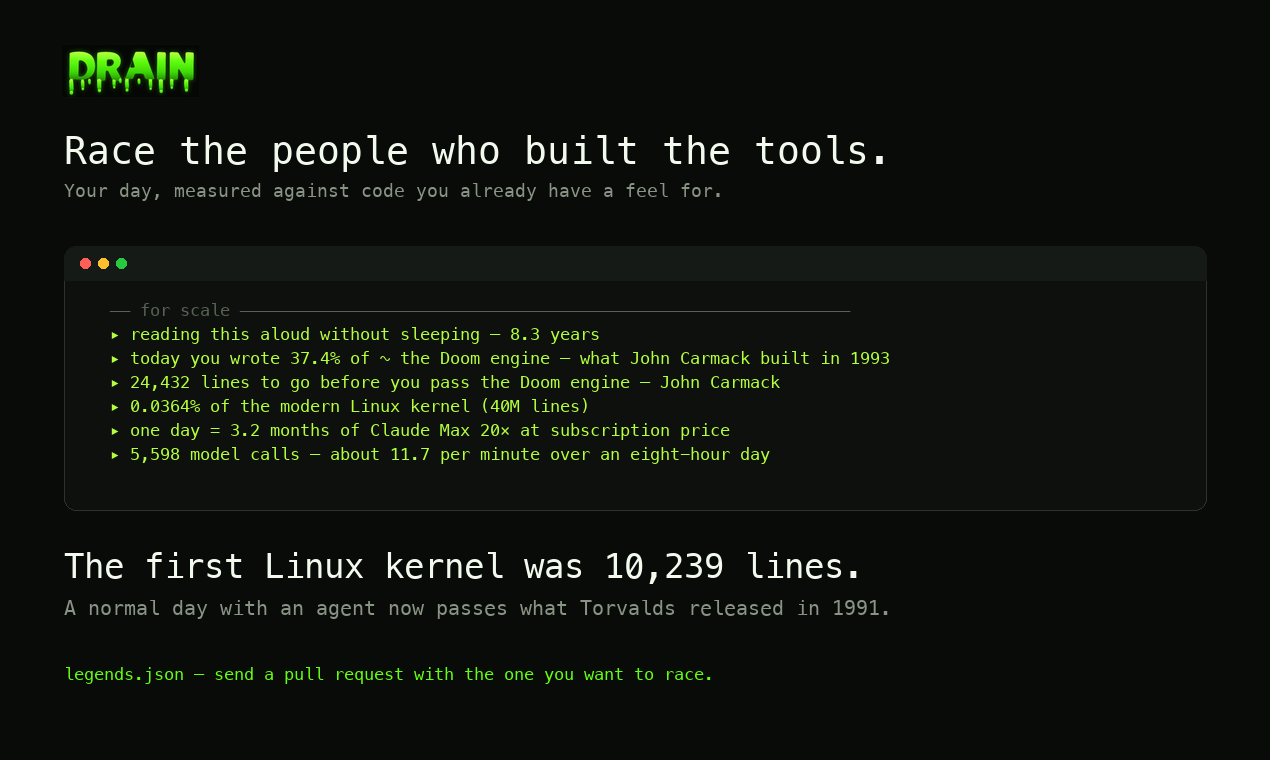
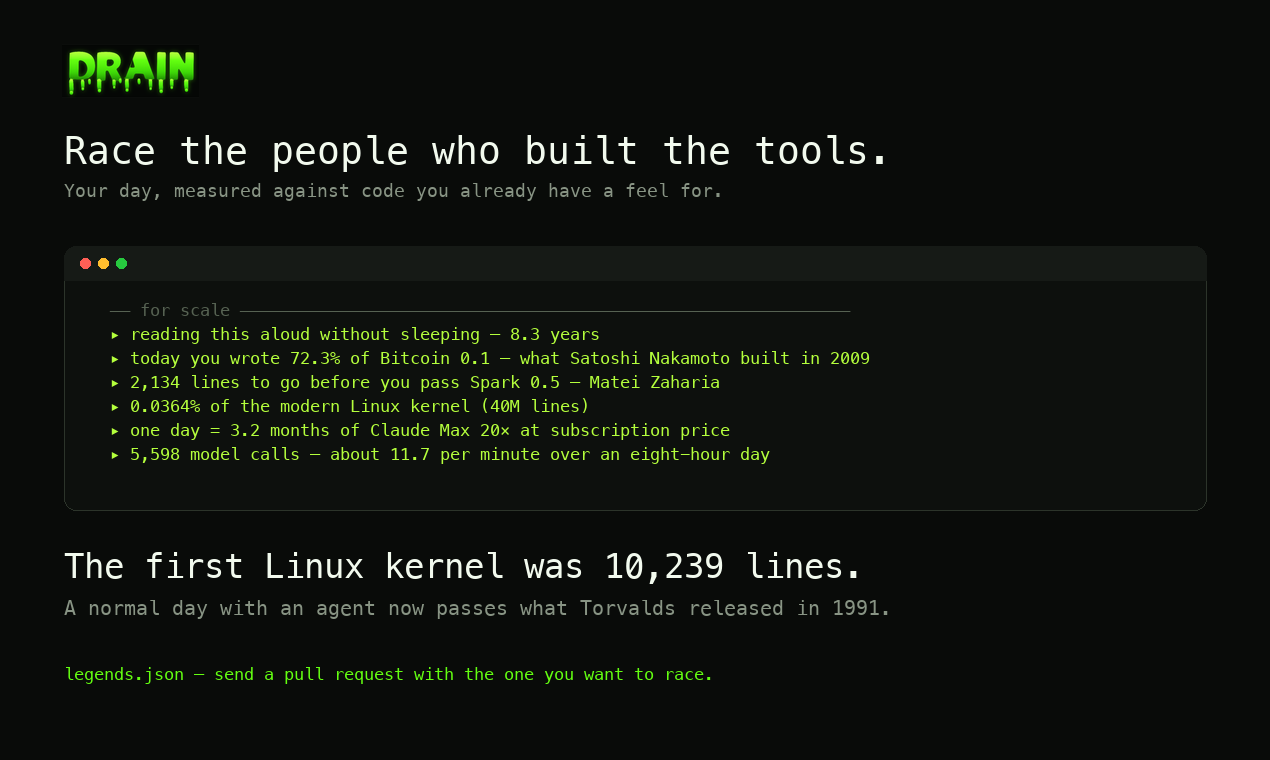
legends: 41 projects, 38 of them measured rather than quoted
The roster was mixing units. Quoted figures like "Doom — 39,000 lines" count
statements, while the lines drain credits you with come from git and are
physical lines. Comparing one to the other flattered every user.

Every measurable entry is now checked out at a named tag and counted the same
way drain counts: physical lines of source files, vendored directories out.
Doom is 55,048 physical lines in linuxdoom-1.10, and the entry says why that
is not the 39,000 everyone quotes.

Mostly first releases, because a day of work compares to a beginning and not
to a mature project — from tinygrad's first 88-line commit to Go 1.0. The
scale is dense enough that the comparison changes day to day, and the ML and
data pantheon is there now: GPT-2, nanoGPT, Keras 0.1, scikit-learn 0.1,
PyTorch 0.1, TensorFlow 0.5, BERT, Whisper, Stable Diffusion, llama.cpp.

Claude-Session: https://claude.ai/code/session_01SV82nbHXud9A1CBran4iZr

Changed region(s): [[0.0921, 0.4539, 0.7063, 0.5145]]

diff --git a/README.md b/README.md
@@ -18,7 +18,7 @@
 </p>
 
 <p align="center">
-  <img src="assets/screenshot.png" alt="drain output for a single day" width="820">
+  <img src="assets/demo.gif" alt="drain counting up a single day" width="820">
 </p>
 
 ---
@@ -100,9 +100,30 @@ compares your day to code you already have a feel for, and tells you how far you
 next one.
 
 The roster lives in [`legends.json`](legends.json) — **send a pull request with whoever you want
-to race.** One rule: the line count has to be sourceable. Current entries include the first Linux
-kernel (10,239 lines), Linux 1.0 (176,250), the Apollo 11 guidance computer (~145,000) and git's
-initial commit (1,244).
+to race.** It holds 41 projects spanning five orders of magnitude, and 38 of them were *measured*
+rather than quoted: the source checked out at the tag named in the entry, physical lines counted,
+vendored directories excluded. Physical lines is the unit git reports for the code you wrote,
+which is the only way the comparison stays honest.
+
+Mostly these are **first releases**, because a day of work compares to a beginning, not to a
+mature project:
+
+| | |
+|---|---|
+| 88 | the first commit of tinygrad — George Hotz, 2020 |
+| 592 | the GPT-2 release — OpenAI, 2019 |
+| 1,244 | the first commit of git — Linus Torvalds, 2005 |
+| 5,096 | Keras 0.1 — François Chollet, 2015 |
+| 10,239 | the Linux 0.01 kernel — Linus Torvalds, 1991 |
+| 12,877 | the first commit of llama.cpp — Georgi Gerganov, 2023 |
+| 43,138 | scikit-learn 0.1 — 2010 |
+| 55,048 | the Doom engine — John Carmack, 1993 |
+| 77,710 | PyTorch 0.1 — 2016 |
+| 130,361 | the Apollo 11 guidance computer — Margaret Hamilton's team, 1969 |
+| 210,394 | TensorFlow 0.5 — Google Brain, 2015 |
+| 40,063,856 | the modern Linux kernel — thousands of people over 34 years |
+
+One rule for a pull request: `exact: true` only if you measured it and said where.
 
 ## 💰 Pricing
 
